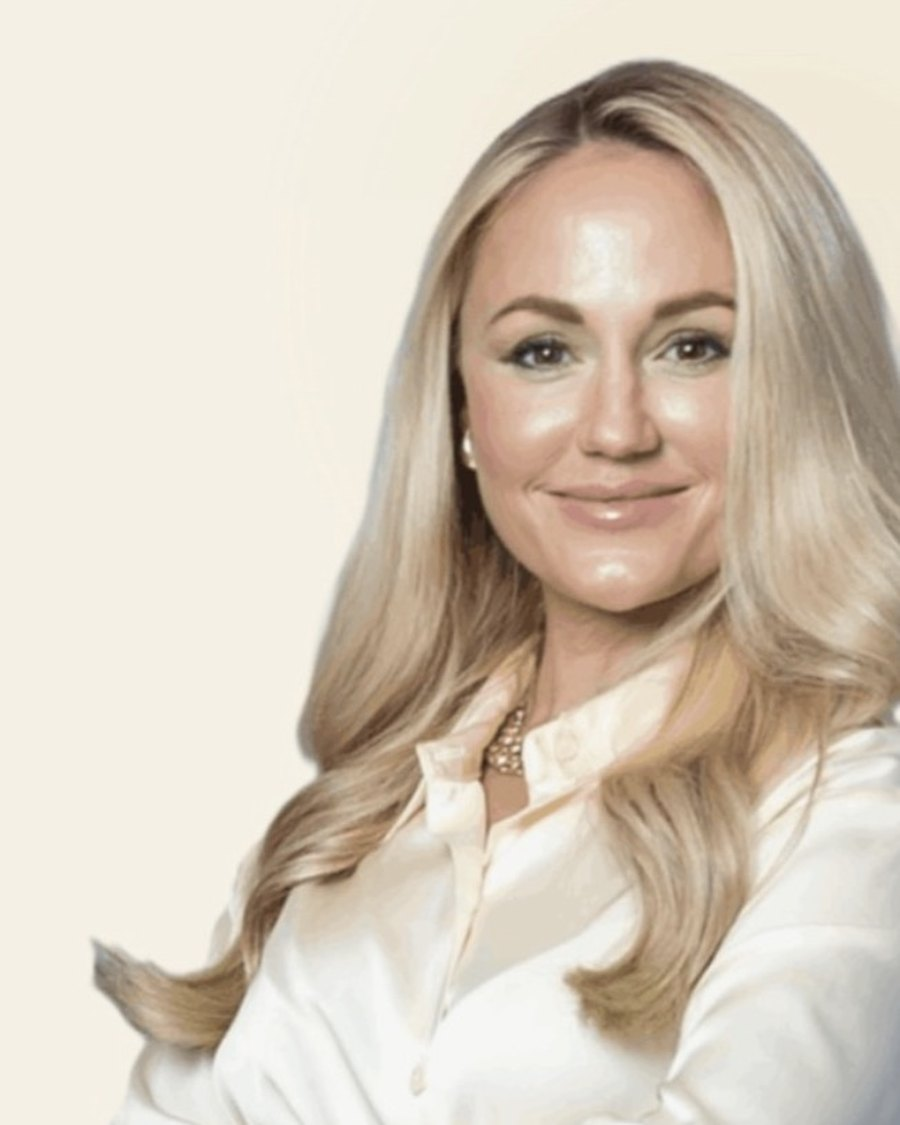
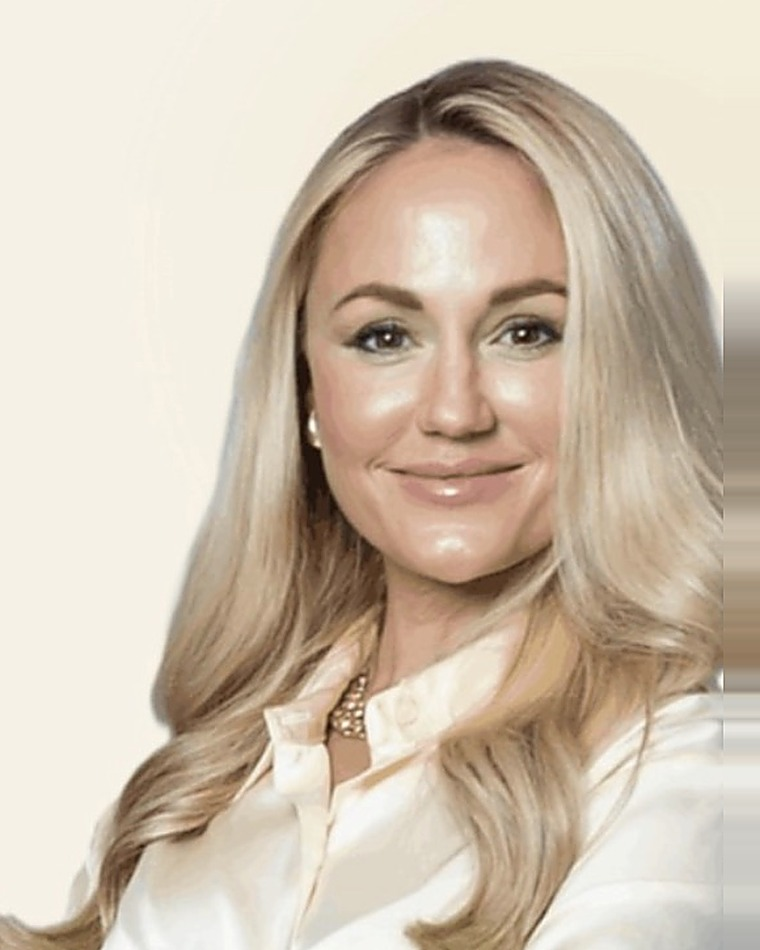
Re-centre and sharpen Emily's portrait; rebuild Instagram patches cleanly
Emily
- She sat right of frame because she stands near the source card's right
  edge. Extended the flat backdrop rightward row-by-row (sampling each
  row's own colour so any vertical shading carries through), then took a
  4:5 crop centred on her figure. Added an unsharp pass and saved at
  higher quality, so the portrait is sharp rather than a soft upscale.

Instagram graphics
- Replaced the blurred clone-stamp patches — which read as smudges — with
  per-row interpolation: each covered strip is rebuilt by blending between
  the intact pixels on either side of it. Flat navy, radial gradients and
  the designs' own hairline rules all reconstruct seamlessly, so there is
  no trace of the carousel counters or mute icons.

Claude-Session: https://claude.ai/code/session_01Rzvc3e42ksFqs8BRkkvkLo

diff --git a/regenortho/index.html b/regenortho/index.html
@@ -456,7 +456,7 @@
       </span>
     </a>
     <a class="doc-card reveal" href="providers/emily-bahnick.html" style="--d:240ms">
-      <span class="doc-photo"><img src="assets/team/emily-bahnick.jpg?v=364864ad" alt="Emily Bahnick, MSN, RN — IV infusion nurse and care coordinator at RegenOrtho Palm Beach" width="450" height="560" loading="lazy"></span>
+      <span class="doc-photo"><img src="assets/team/emily-bahnick.jpg?v=63c6b25d" alt="Emily Bahnick, MSN, RN — IV infusion nurse and care coordinator at RegenOrtho Palm Beach" width="450" height="560" loading="lazy"></span>
       <span class="doc-body">
         <strong>Emily Bahnick, MSN, RN</strong>
         <span class="doc-role">IV Infusion Nurse &amp; Care Coordinator</span>
@@ -568,23 +568,23 @@
   <div class="social-rail" data-marquee-rail>
     <div class="social-track" data-marquee>
       <a class="social-tile" href="https://www.instagram.com/regenortho_palmbeach/" rel="noopener" target="_blank" aria-label="Instagram post: The traditional ladder — rest, physical therapy, cortisone, surgery">
-        <img src="assets/social/ig-ladder.jpg?v=f2b88a4b" alt="The traditional ladder — rest, physical therapy, cortisone, surgery" loading="lazy">
+        <img src="assets/social/ig-ladder.jpg?v=d6004b45" alt="The traditional ladder — rest, physical therapy, cortisone, surgery" loading="lazy">
       </a><a class="social-tile" href="https://www.instagram.com/regenortho_palmbeach/" rel="noopener" target="_blank" aria-label="Instagram post: Between the last shot and the operating room, there used to be nothing">
-        <img src="assets/social/ig-gap.jpg?v=e988ad1d" alt="Between the last shot and the operating room, there used to be nothing" loading="lazy">
+        <img src="assets/social/ig-gap.jpg?v=fdda40f0" alt="Between the last shot and the operating room, there used to be nothing" loading="lazy">
       </a><a class="social-tile" href="https://www.instagram.com/regenortho_palmbeach/" rel="noopener" target="_blank" aria-label="Instagram post: One toolkit, matched to your tissue — PRP, shockwave, biologics, peptides, laser">
-        <img src="assets/social/ig-toolkit.jpg?v=6f44cf3b" alt="One toolkit, matched to your tissue — PRP, shockwave, biologics, peptides, laser" loading="lazy">
+        <img src="assets/social/ig-toolkit.jpg?v=d9e055e1" alt="One toolkit, matched to your tissue — PRP, shockwave, biologics, peptides, laser" loading="lazy">
       </a><a class="social-tile" href="https://www.instagram.com/regenortho_palmbeach/" rel="noopener" target="_blank" aria-label="Instagram post: Dr. Cedeno wrote the book on feet that won&#x27;t heal — a free 28-page patient guide">
-        <img src="assets/social/ig-guide.jpg?v=f538b20c" alt="Dr. Cedeno wrote the book on feet that won&#x27;t heal — a free 28-page patient guide" loading="lazy">
+        <img src="assets/social/ig-guide.jpg?v=1b221ed0" alt="Dr. Cedeno wrote the book on feet that won&#x27;t heal — a free 28-page patient guide" loading="lazy">
       </a><a class="social-tile" href="https://www.instagram.com/regenortho_palmbeach/" rel="noopener" target="_blank" aria-label="Instagram post: Eight short chapters, zero jargon — inside the regenerative foot &amp; ankle guide">
-        <img src="assets/social/ig-chapters.jpg?v=ffcbe9f2" alt="Eight short chapters, zero jargon — inside the regenerative foot &amp; ankle guide" loading="lazy">
+        <img src="assets/social/ig-chapters.jpg?v=b6e8eee3" alt="Eight short chapters, zero jargon — inside the regenerative foot &amp; ankle guide" loading="lazy">
       </a><a class="social-tile" href="https://www.instagram.com/regenortho_palmbeach/" rel="noopener" target="_blank" aria-label="Instagram post: What peptide therapy can do for you — physician-supervised protocols">
-        <img src="assets/social/ig-peptides.jpg?v=c0fb29b6" alt="What peptide therapy can do for you — physician-supervised protocols" loading="lazy">
+        <img src="assets/social/ig-peptides.jpg?v=f89b4821" alt="What peptide therapy can do for you — physician-supervised protocols" loading="lazy">
       </a><a class="social-tile" href="https://www.instagram.com/regenortho_palmbeach/" rel="noopener" target="_blank" aria-label="Instagram post: Five pathways to recovery at RegenOrtho Palm Beach">
-        <img src="assets/social/ig-pathways.jpg?v=764fe058" alt="Five pathways to recovery at RegenOrtho Palm Beach" loading="lazy">
+        <img src="assets/social/ig-pathways.jpg?v=e8d4149e" alt="Five pathways to recovery at RegenOrtho Palm Beach" loading="lazy">
       </a><a class="social-tile" href="https://www.instagram.com/regenortho_palmbeach/" rel="noopener" target="_blank" aria-label="Instagram post: Meet your care team — Dr. Matarazzo and Dr. Cedeno">
-        <img src="assets/social/ig-careteam.jpg?v=c68a3e74" alt="Meet your care team — Dr. Matarazzo and Dr. Cedeno" loading="lazy">
+        <img src="assets/social/ig-careteam.jpg?v=c3feae60" alt="Meet your care team — Dr. Matarazzo and Dr. Cedeno" loading="lazy">
       </a><a class="social-tile" href="https://www.instagram.com/regenortho_palmbeach/" rel="noopener" target="_blank" aria-label="Instagram post: Concierge care, by design — physician-led and precision-guided">
-        <img src="assets/social/ig-concierge.jpg?v=a6b29b21" alt="Concierge care, by design — physician-led and precision-guided" loading="lazy">
+        <img src="assets/social/ig-concierge.jpg?v=c1907efa" alt="Concierge care, by design — physician-led and precision-guided" loading="lazy">
       </a>
     </div>
   </div>

diff --git a/regenortho/providers/emily-bahnick.html b/regenortho/providers/emily-bahnick.html
@@ -11,13 +11,13 @@
 <meta property="og:title" content="Emily Bahnick, MSN, RN | IV Infusion Nurse Palm Beach Gardens">
 <meta property="og:description" content="Meet Emily Bahnick, MSN, RN — the IV infusion nurse and care coordinator at RegenOrtho Palm Beach in Palm Beach Gardens, with 10+ years of nursing experience.">
 <meta property="og:url" content="https://www.regenorthopb.com/providers/emily-bahnick.html">
-<meta property="og:image" content="https://www.regenorthopb.com/assets/team/emily-bahnick.jpg?v=364864ad">
+<meta property="og:image" content="https://www.regenorthopb.com/assets/team/emily-bahnick.jpg?v=63c6b25d">
 <meta property="og:image:width" content="1200">
 <meta property="og:image:height" content="630">
 <meta name="twitter:card" content="summary_large_image">
 <meta name="twitter:title" content="Emily Bahnick, MSN, RN | IV Infusion Nurse Palm Beach Gardens">
 <meta name="twitter:description" content="Meet Emily Bahnick, MSN, RN — the IV infusion nurse and care coordinator at RegenOrtho Palm Beach in Palm Beach Gardens, with 10+ years of nursing experience.">
-<meta name="twitter:image" content="https://www.regenorthopb.com/assets/team/emily-bahnick.jpg?v=364864ad">
+<meta name="twitter:image" content="https://www.regenorthopb.com/assets/team/emily-bahnick.jpg?v=63c6b25d">
 <meta name="theme-color" content="#071A38">
 <link rel="icon" type="image/png" sizes="32x32" href="../assets/media/favicon-32.png?v=1">
 <link rel="icon" type="image/png" sizes="16x16" href="../assets/media/favicon-16.png?v=1">
@@ -112,7 +112,7 @@
 <section class="section">
   <div class="provider-grid">
     <figure class="provider-photo reveal">
-      <img src="../assets/team/emily-bahnick.jpg?v=364864ad" alt="Emily Bahnick, MSN, RN — IV Infusion Nurse & Care Coordinator at RegenOrtho Palm Beach" width="560" height="700">
+      <img src="../assets/team/emily-bahnick.jpg?v=63c6b25d" alt="Emily Bahnick, MSN, RN — IV Infusion Nurse & Care Coordinator at RegenOrtho Palm Beach" width="560" height="700">
     </figure>
     <div class="provider-bio reveal" style="--d:120ms">
       <div class="sym-card provider-card">

diff --git a/regenortho/about.html b/regenortho/about.html
@@ -135,7 +135,7 @@
       <span class="doc-photo"><img src="assets/team/orlando-cedeno.jpg?v=3ac660d6" alt="Dr. Orlando Cedeno, DPM — DPM, FACFAS · Owner" width="450" height="560" loading="lazy"></span>
       <span class="doc-body"><strong>Dr. Orlando Cedeno, DPM</strong><span class="doc-role">DPM, FACFAS · Owner</span><span class="doc-bio">Board certified in foot surgery by the American Board of Foot & Ankle Surgery, fellowship-trained in reconstructive and trauma surgery of the foot and ankle, with advanced expertise in vein care.</span><em class="svc-more">Full profile <svg viewBox="0 0 16 12" width="14" height="10" aria-hidden="true"><path fill="none" stroke="currentColor" stroke-width="2" d="M1 6h13M9 1l5 5-5 5"/></svg></em></span>
     </a><a class="doc-card reveal" href="providers/emily-bahnick.html">
-      <span class="doc-photo"><img src="assets/team/emily-bahnick.jpg?v=364864ad" alt="Emily Bahnick, MSN, RN — IV Infusion Nurse & Care Coordinator" width="450" height="560" loading="lazy"></span>
+      <span class="doc-photo"><img src="assets/team/emily-bahnick.jpg?v=63c6b25d" alt="Emily Bahnick, MSN, RN — IV Infusion Nurse & Care Coordinator" width="450" height="560" loading="lazy"></span>
       <span class="doc-body"><strong>Emily Bahnick, MSN, RN</strong><span class="doc-role">IV Infusion Nurse & Care Coordinator</span><span class="doc-bio">Registered nurse with MSN and BSN degrees and more than 10 years of experience — your IV infusion nurse and care coordinator, focused on longevity, reducing reliance on pharmaceuticals, and healing from within.</span><span class="doc-stats"><span>10+ years experience</span><span>MSN · BSN</span><span>Registered Nurse</span></span><em class="svc-more">Full profile <svg viewBox="0 0 16 12" width="14" height="10" aria-hidden="true"><path fill="none" stroke="currentColor" stroke-width="2" d="M1 6h13M9 1l5 5-5 5"/></svg></em></span>
     </a></div>
   <div class="team-strip">

diff --git a/regenortho/iv-therapy.html b/regenortho/iv-therapy.html
@@ -211,7 +211,7 @@
 </section>
 <section class="section">
   <div class="nurse-credit reveal">
-    <figure class="nurse-photo"><img src="assets/team/emily-bahnick.jpg?v=364864ad" alt="Emily Bahnick, MSN, RN — IV infusion nurse at RegenOrtho Palm Beach" width="360" height="450" loading="lazy"></figure>
+    <figure class="nurse-photo"><img src="assets/team/emily-bahnick.jpg?v=63c6b25d" alt="Emily Bahnick, MSN, RN — IV infusion nurse at RegenOrtho Palm Beach" width="360" height="450" loading="lazy"></figure>
     <div class="nurse-copy">
       <p class="eyebrow">Your infusion nurse</p>
       <h2>Every drip placed by <em>Emily Bahnick, MSN, RN</em></h2>
